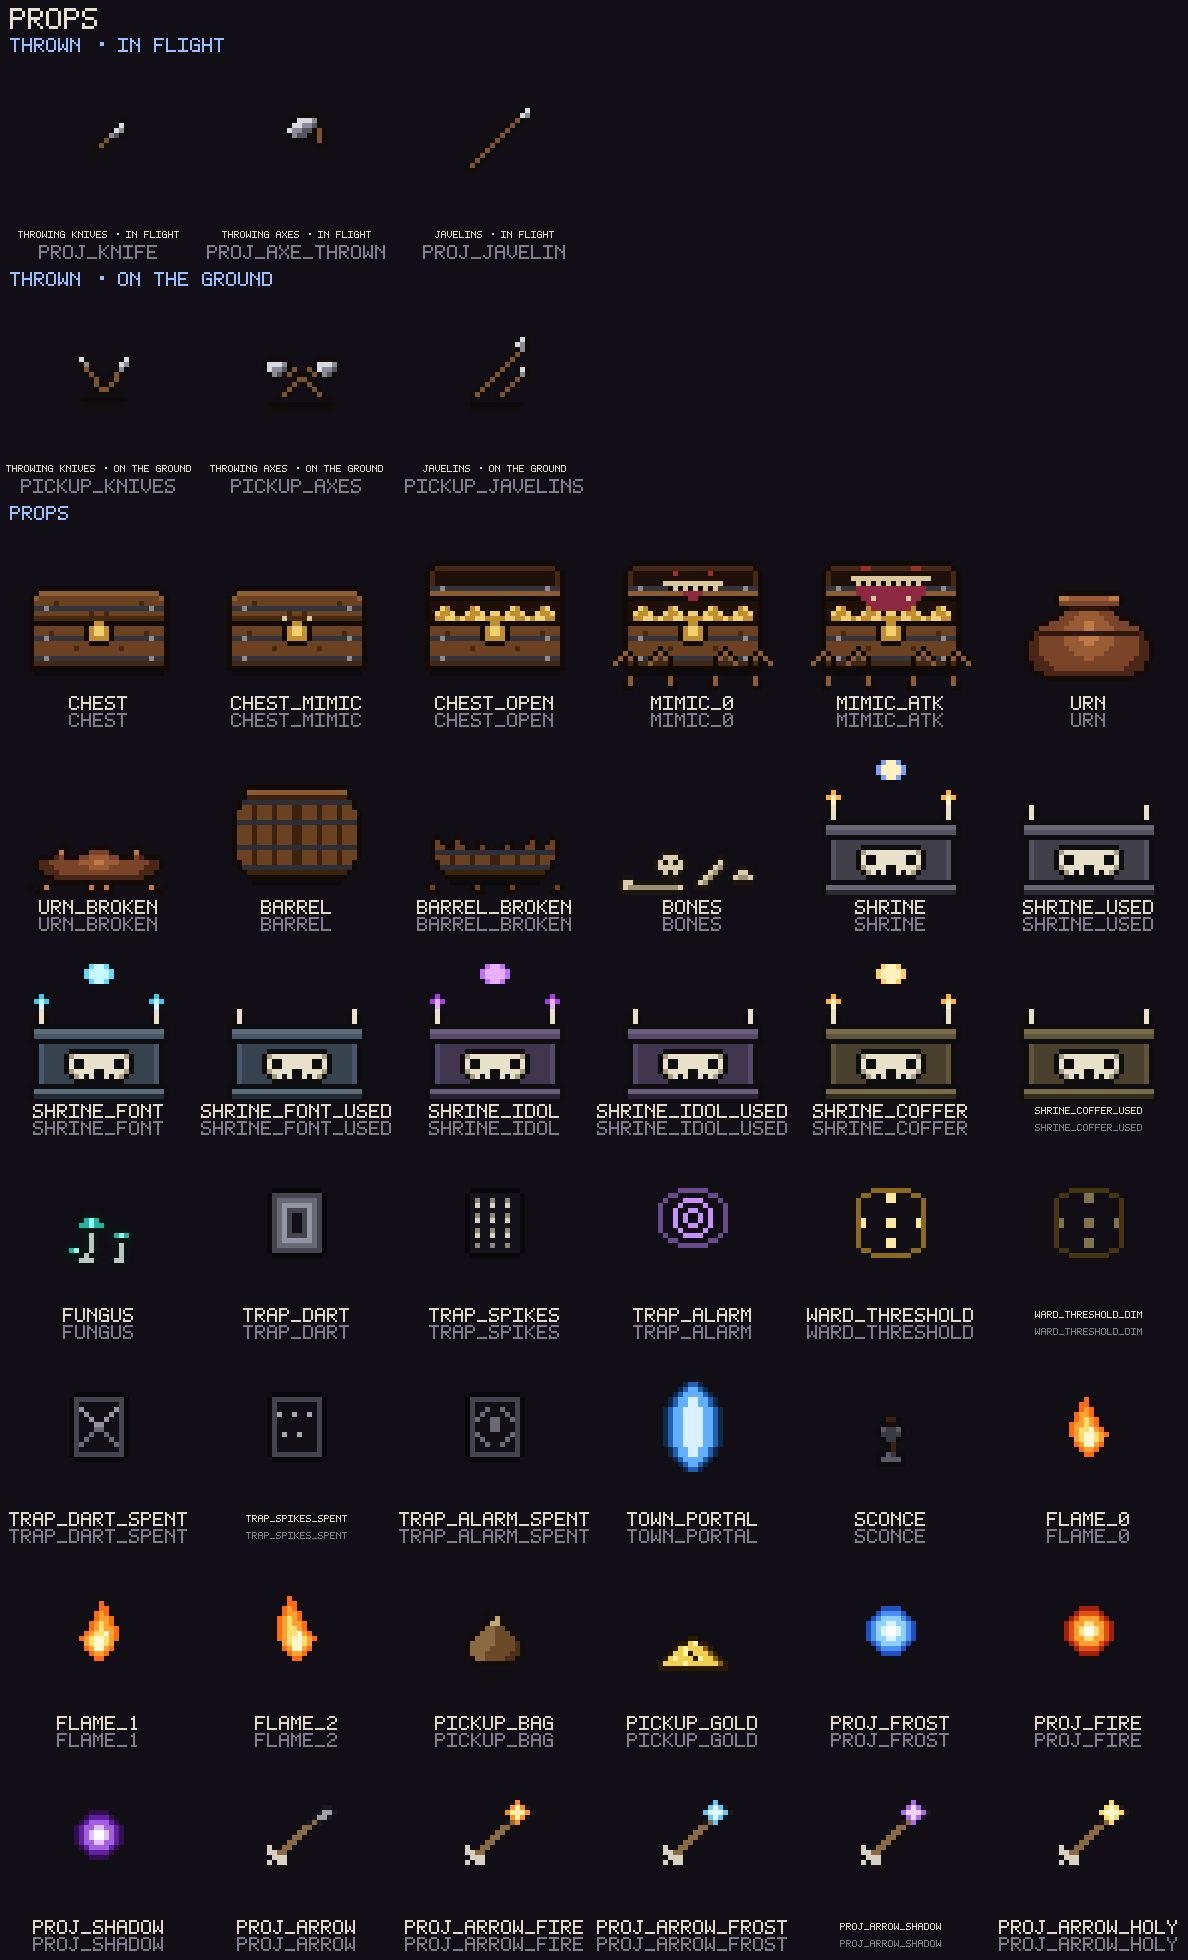
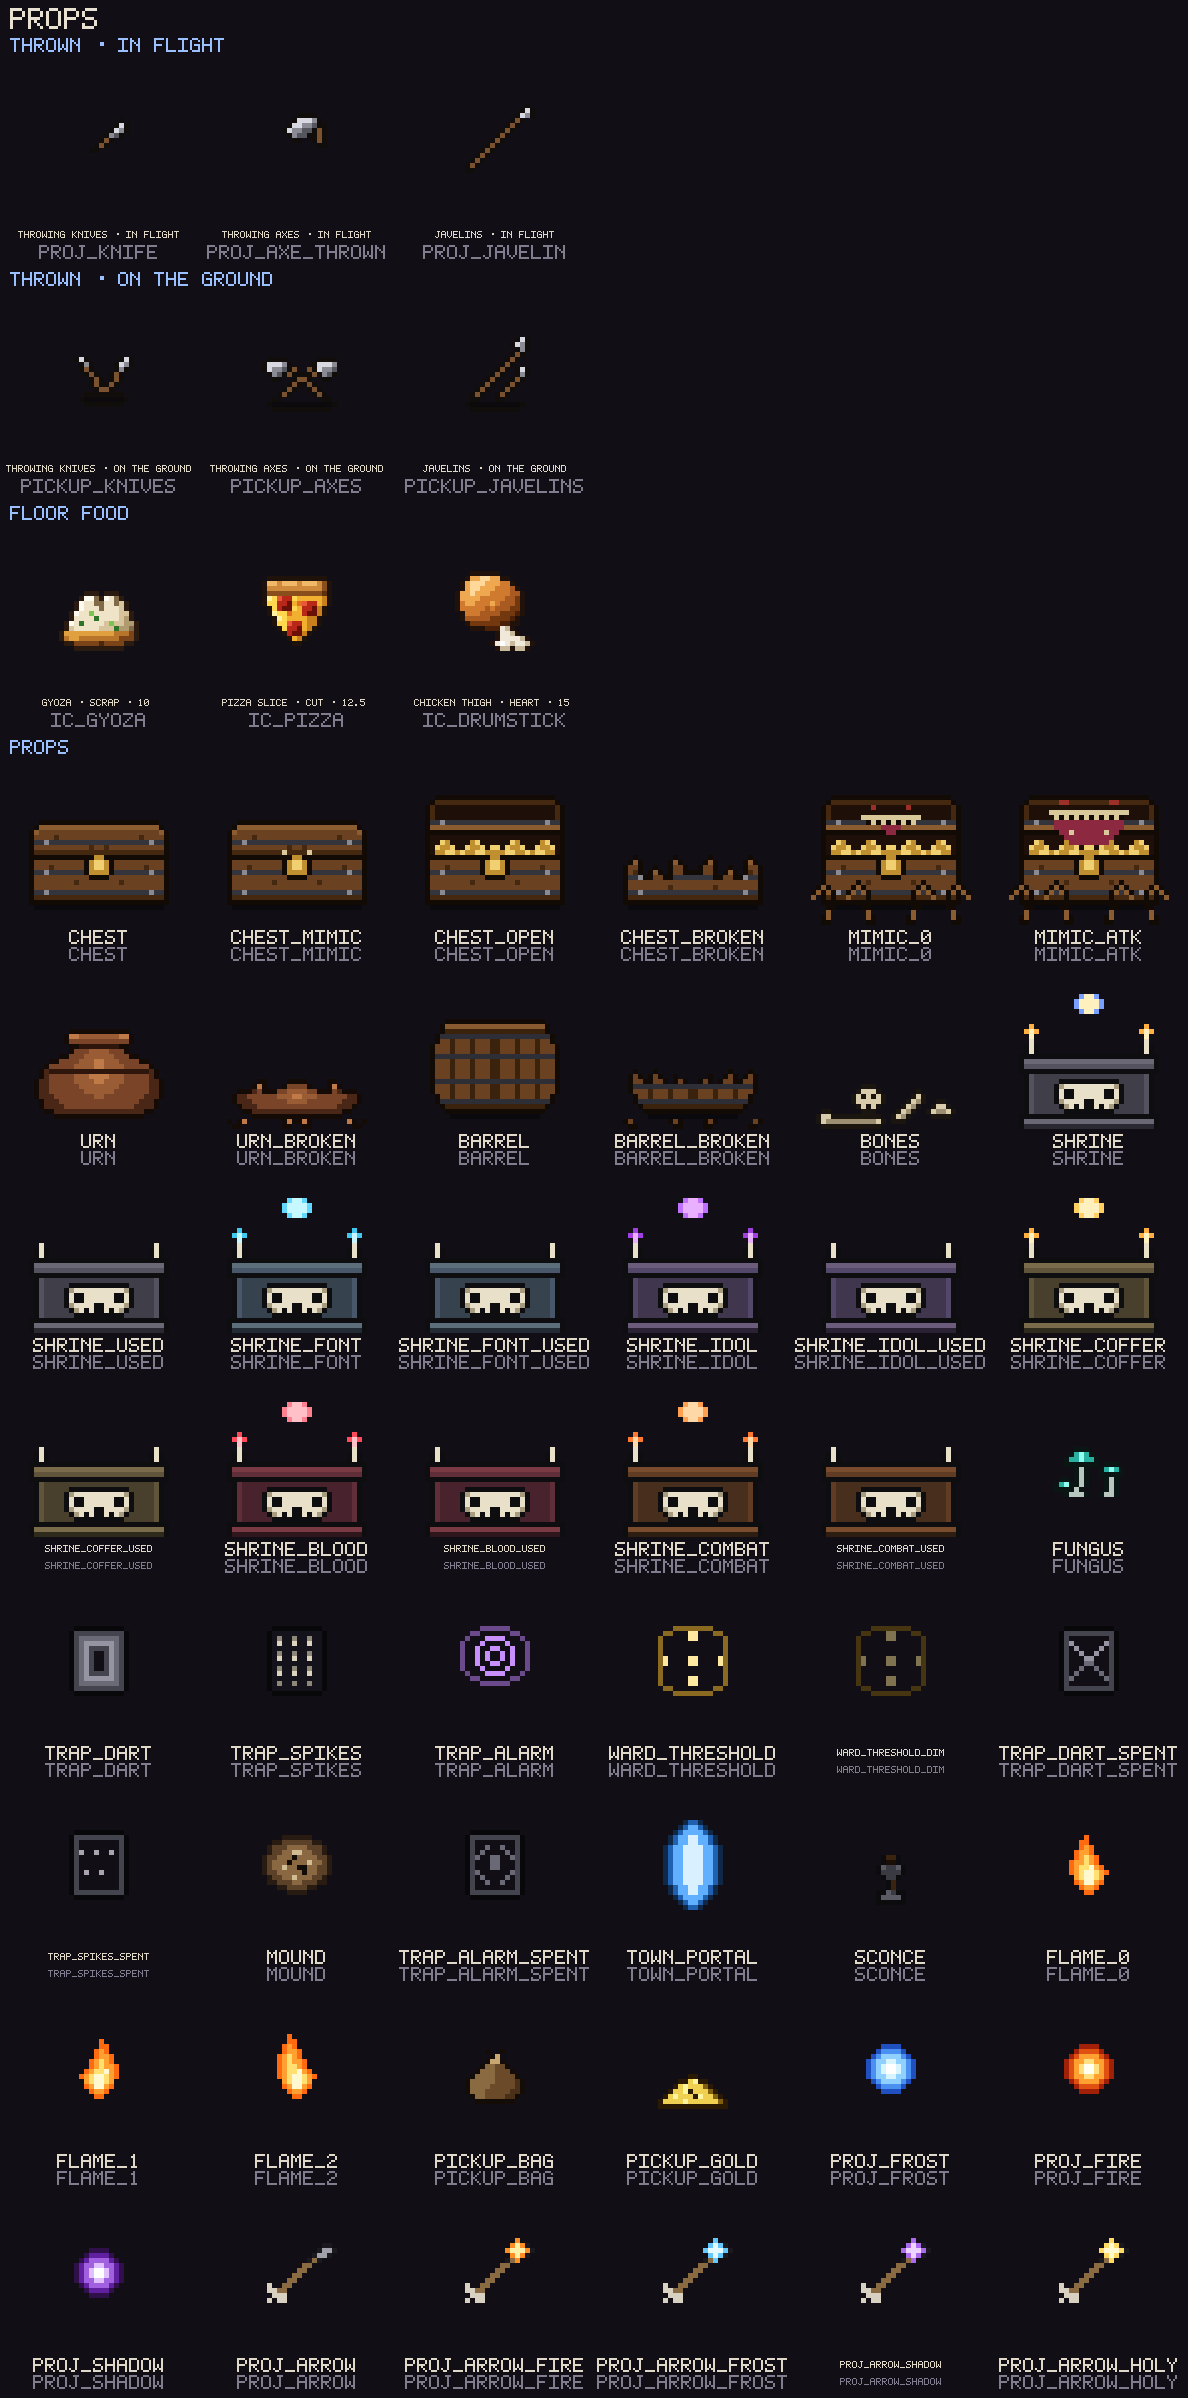
Add PR art sheets, list the worn props, and log what Oddities leaves open
The herd, the hat, the monocle and the three weapons as PNGs for the PR
description rather than as pixel rows nobody can read.

The hat and the monocle are worn rather than stood on the floor, so they
were in none of the dev art sheets; they get their own group under Props,
which is where someone would look for them.

NEXT.md records what this branch shipped and, more usefully, the five
things it does not solve: the bot cannot feel a camera roll so its numbers
for the Pasture mean nothing; there is nowhere that remembers you found a
strange floor; the quirk machinery is generic enough that a third is a
data change; elite cattle read oddly; and a sweep currently has no shield
answer, with the lever named for if it turns out to need one.

diff --git a/src/dev/art-sheets.ts b/src/dev/art-sheets.ts
@@ -343,6 +343,9 @@ function propGroups(): SheetGroup[] {
     { title: 'Thrown · on the ground', cells: onGround },
     { title: 'Floor food', cells: foodCells() },
     { title: 'Props', cells: plain(PROPS.map((p) => p.id).filter((id) => !covered.has(id))) },
+    // Worn rather than stood on the floor: the Silent Picture billboards these
+    // above every creature, so they live with the herd art but belong here.
+    { title: 'Worn on a strange floor', cells: plain(['prop_tophat', 'prop_monocle']) },
   ];
 }
 

diff --git a/docs/NEXT.md b/docs/NEXT.md
@@ -726,6 +726,50 @@ Every save change is additive and goes through `migrations.ts` with
 stream so existing floors do not reshuffle. Every new number goes into
 MECHANICS.md when it becomes real.
 
+## Shipped 2026-09-20 — Oddities (branch `feat/oddities`)
+
+The run-identity work (#18–#31) answered *why is this delve different from the
+last one*. This answers *why is this fight different from the last one*, and
+adds somewhere to go that nobody planned for. Design, numbers and the harness
+comparison are in **docs/ODDITIES.md**.
+
+1. **Attack moves.** A creature carries a weighted move set and rolls one when
+   it commits: jab, flurry, thrust, sweep, slam, feint, or the plain blow.
+   Every move is priced against the plain blow's damage over time and sits
+   within 4% of it (`relativeDps`, pinned by `attacks.test.ts`). Measured over
+   seven bot profiles: damage taken flat, hits taken up ~28%. Twenty creatures
+   have a set; archers and the King do not.
+2. **Strange floors.** `Floor.quirk`, rolled per fresh floor at depths 2–5 and
+   applied *after* generation, so `generateFloor` stays pure and the golden
+   hashes keep their meaning. The Forbidden Pasture (upside down, cattle) and
+   The Silent Picture (black and white, ×1.25, hats and monocles, every melee
+   weapon drawn as a cane).
+3. **Three weapons.** The Big Toe (ordinary drop pool), and two relics locked
+   to their floors by `UniqueDef.only`, which keeps them out of every
+   Legendary roll including the King's promise.
+
+### What this leaves for next time
+
+- **The bot cannot play a strange floor properly.** The Silent Picture is only
+  a time scale so the harness handles it, but the Pasture's difficulty is a
+  camera roll, which the bot does not experience at all. Its numbers for that
+  floor mean nothing. Either accept that it is a human-only difficulty or give
+  the bot a penalty that stands in for disorientation.
+- **A per-save record of strange floors seen.** The codex has relics and the
+  bestiary has monsters; there is nowhere that remembers you found a Pasture.
+  A line in the codex would cost little and would make them collectable.
+- **More quirks.** The machinery is generic — enemy pool, lighting, post pass,
+  time scale, loot promotion, music — and adding a third is now a data change
+  plus whatever art it needs. Candidates that reuse what exists: a floor where
+  every container is a mimic, a floor lit only by what you are carrying, a
+  floor where the monsters are asleep until you make a noise.
+- **Elite cattle read oddly.** An elite trait's pulse on a cow is correct but
+  unremarked; the Pasture might want its own trait names.
+- **Sweep has no shield answer.** It is priced 10% under neutral because it
+  takes the sidestep away, but a tower shield does nothing special against it.
+  If sweeps end up feeling unfair, the lever is letting a raised guard cover
+  the flanks rather than making the move weaker.
+
 ## Settled 2026-09-19
 
 - **Elites appear on their own, whatever the Oath or Seal.** There is a base
